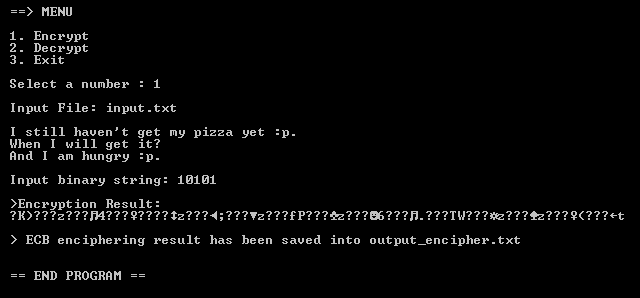
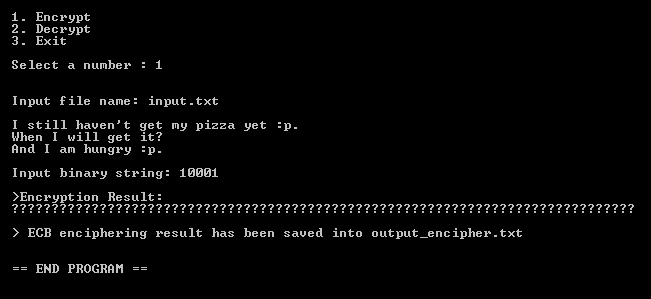
ECB fixed

Changed region(s): [[0.0, 0.2718, 0.9688, 0.8456], [0.0, 0.0, 0.25, 0.2416], [0.0312, 0.8758, 0.2188, 0.9362]]

diff --git a/Virucodesoup/C#/ECB (Electronic Code Book)/ecb.cs b/Virucodesoup/C#/ECB (Electronic Code Book)/ecb.cs
@@ -380,8 +380,14 @@ class ECB {
     public static void Main(String[] args)
     /* executes class program */
     {
+		
         ECB ecb = new ECB();
-        ecb.driver();
+        
+		System.Console.Write("\n===== ECB (Electronic Code Book) =====\n");
+		System.Console.Write("\n\n== START PROGRAM ==\n\n");
+		ecb.driver();
+		System.Console.Write("\n\n== END PROGRAM ==\n\n");
+		Console.ReadLine();
     }
 	
 }
